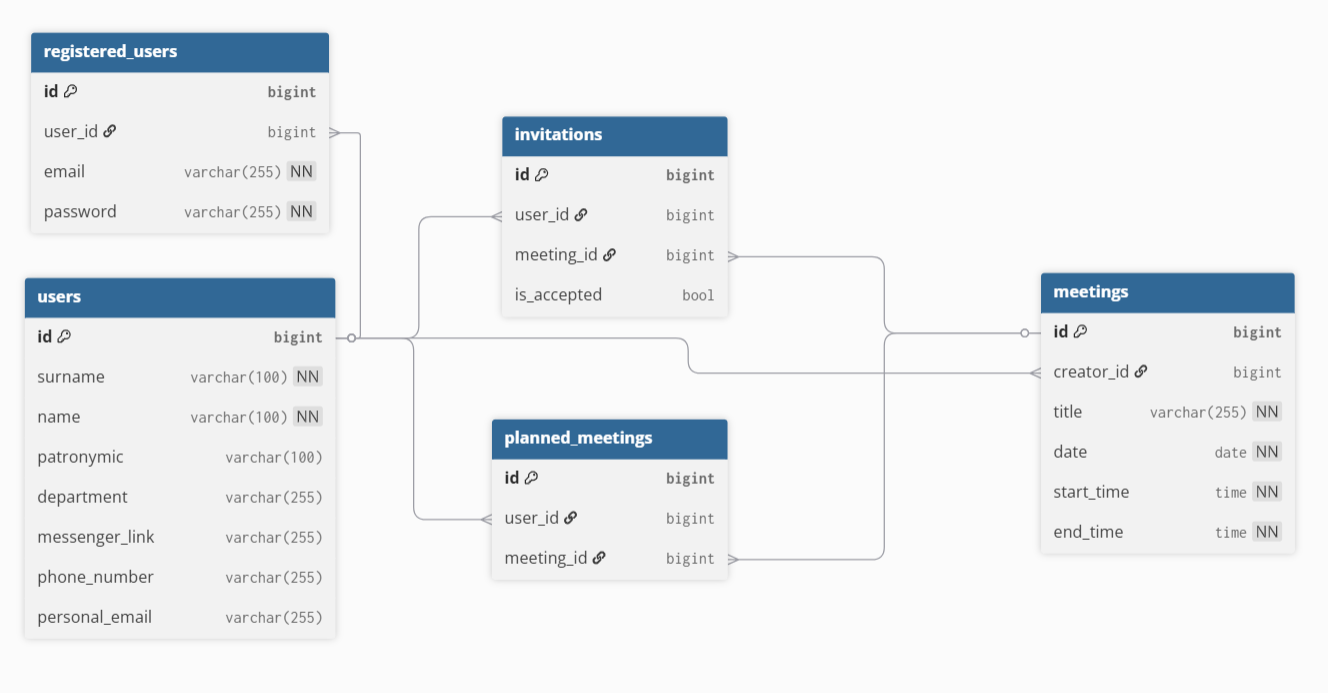
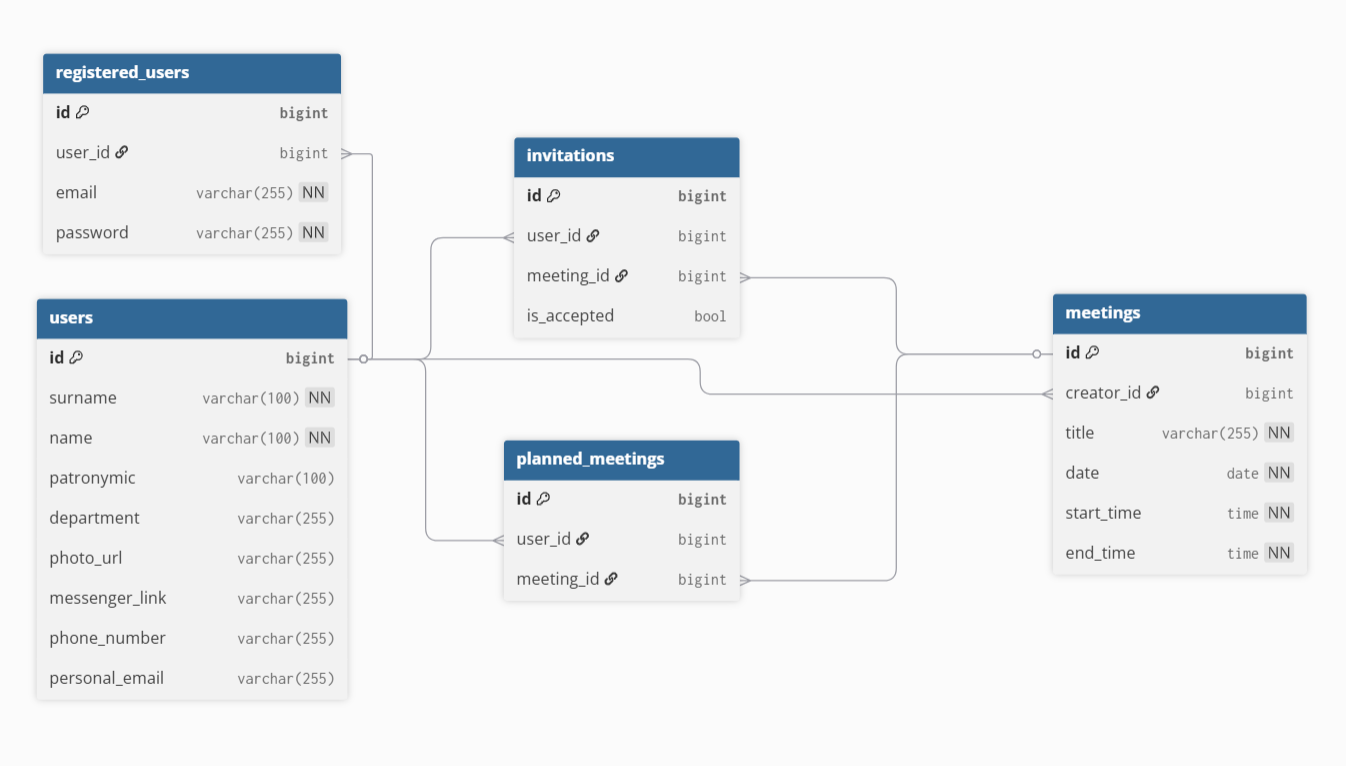
added entities, DTOs, util classes

diff --git a/src/main/java/ru/sicampus/bootcamp2026/util/MeetingMapper.java b/src/main/java/ru/sicampus/bootcamp2026/util/MeetingMapper.java
@@ -1,0 +1,39 @@
+package ru.sicampus.bootcamp2026.util;
+
+import lombok.experimental.UtilityClass;
+import ru.sicampus.bootcamp2026.dto.MeetingDTO;
+import ru.sicampus.bootcamp2026.entity.Meeting;
+import ru.sicampus.bootcamp2026.entity.User;
+
+import java.util.ArrayList;
+import java.util.List;
+
+@UtilityClass
+public class MeetingMapper {
+    public MeetingDTO convertToDto(Meeting meeting) {
+        MeetingDTO meetingDTO = new MeetingDTO();
+        meetingDTO.setId(meeting.getId());
+        meetingDTO.setTitle(meeting.getTitle());
+        meetingDTO.setDate(meeting.getDate());
+        meetingDTO.setStartTime(meeting.getStartTime());
+        meetingDTO.setEndTime(meeting.getEndTime());
+
+        User creator = meeting.getCreator();
+        meetingDTO.setCreatorSurname(creator.getSurname());
+        meetingDTO.setCreatorName(creator.getName());
+        meetingDTO.setCreatorPatronymic(creator.getPatronymic());
+
+        List<User> invitedUsers = new ArrayList<>();
+        List<User> confirmedUsers = new ArrayList<>();
+        meeting.getInvites().forEach(invite -> {
+            User invitedUser = invite.getInvitedUser();
+            invitedUsers.add(invitedUser);
+            if (invite.isAccepted()) {
+                confirmedUsers.add(invitedUser);
+            }
+        });
+        meetingDTO.setInvitedUsers(invitedUsers);
+        meetingDTO.setConfirmedUsers(confirmedUsers);
+        return meetingDTO;
+    }
+}

diff --git a/src/main/java/ru/sicampus/bootcamp2026/util/UserMapper.java b/src/main/java/ru/sicampus/bootcamp2026/util/UserMapper.java
@@ -1,0 +1,37 @@
+package ru.sicampus.bootcamp2026.util;
+
+import lombok.experimental.UtilityClass;
+import ru.sicampus.bootcamp2026.dto.UserDTO;
+import ru.sicampus.bootcamp2026.entity.Invitation;
+import ru.sicampus.bootcamp2026.entity.Meeting;
+import ru.sicampus.bootcamp2026.entity.User;
+
+import java.util.ArrayList;
+import java.util.List;
+
+@UtilityClass
+public class UserMapper {
+    public UserDTO convertToDto(User user) {
+        UserDTO userDTO = new UserDTO();
+        userDTO.setId(user.getId());
+        userDTO.setSurname(user.getSurname());
+        userDTO.setName(user.getName());
+        userDTO.setPatronymic(user.getPatronymic());
+        userDTO.setDepartmentName(user.getDepartmentName());
+        userDTO.setPhotoUrl(user.getPhotoUrl());
+        userDTO.setMessengerLink(user.getMessengerLink());
+        userDTO.setPhoneNumber(user.getPhoneNumber());
+        userDTO.setPersonalEmail(user.getPersonalEmail());
+
+        List<Meeting> invitedMeetings = new ArrayList<>();
+        for (Invitation invite : user.getInvites()) {
+            if (!invite.isAccepted()) {
+                invitedMeetings.add(invite.getMeeting());
+            }
+        }
+        userDTO.setInvitedMeetings(invitedMeetings);
+
+        userDTO.setPlannedMeetings(user.getPlannedMeetings());
+        return userDTO;
+    }
+}

diff --git a/src/main/java/ru/sicampus/bootcamp2026/entity/User.java b/src/main/java/ru/sicampus/bootcamp2026/entity/User.java
@@ -1,0 +1,51 @@
+package ru.sicampus.bootcamp2026.entity;
+
+import jakarta.persistence.*;
+import lombok.Data;
+
+import java.util.List;
+
+@Data
+@Entity
+@Table(name = "users")
+public class User {
+    @Id
+    @GeneratedValue(strategy = GenerationType.IDENTITY)
+    private long id;
+
+    @Column(name = "surname", nullable = false)
+    private String surname;
+
+    @Column(name = "name", nullable = false)
+    private String name;
+
+    @Column(name = "patronymic")
+    private String patronymic;
+
+    @Column(name = "department")
+    private String departmentName;
+
+    @Column(name = "photo_url")
+    private String photoUrl;
+
+    @Column(name = "messenger_link", unique = true)
+    private String messengerLink;
+
+    @Column(name = "phone_number", unique = true)
+    private String phoneNumber;
+
+    @Column(name = "personal_email", unique = true)
+    private String personalEmail;
+
+    @OneToOne(mappedBy = "user", cascade = CascadeType.ALL)
+    private RegisteredUser registrationData;
+
+    @OneToMany(mappedBy = "creator", cascade = CascadeType.ALL)
+    private List<Meeting> createdMeetings;
+
+    @OneToMany(mappedBy = "invitedUser", cascade = CascadeType.ALL)
+    private List<Invitation> invites;
+
+    @ManyToMany(mappedBy = "confirmedUsers")
+    private List<Meeting> plannedMeetings;
+}

diff --git a/src/main/java/ru/sicampus/bootcamp2026/entity/Meeting.java b/src/main/java/ru/sicampus/bootcamp2026/entity/Meeting.java
@@ -1,0 +1,42 @@
+package ru.sicampus.bootcamp2026.entity;
+
+import jakarta.persistence.*;
+import lombok.Data;
+
+import java.sql.Time;
+import java.util.Date;
+import java.util.List;
+
+@Data
+@Entity
+@Table(name = "meetings")
+public class Meeting {
+    @Id
+    @GeneratedValue(strategy = GenerationType.IDENTITY)
+    private long id;
+
+    @ManyToOne
+    @JoinColumn(name = "creator_id", nullable = false)
+    private User creator;
+
+    @Column(name = "title", nullable = false)
+    private String title;
+
+    @Column(name = "date", nullable = false)
+    private Date date;
+
+    @Column(name = "start_time", nullable = false)
+    private Time startTime;
+
+    @Column(name = "end_time", nullable = false)
+    private Time endTime;
+
+    @OneToMany(mappedBy = "meeting", cascade = CascadeType.ALL)
+    private List<Invitation> invites;
+
+    @ManyToMany
+    @JoinTable(name = "planned_meetings",
+            joinColumns = @JoinColumn(name = "meeting_id"),
+            inverseJoinColumns = @JoinColumn(name = "user_id"))
+    private List<User> confirmedUsers;       //Users which have accepted invites
+}

diff --git a/src/main/java/ru/sicampus/bootcamp2026/dto/UserDTO.java b/src/main/java/ru/sicampus/bootcamp2026/dto/UserDTO.java
@@ -1,0 +1,22 @@
+package ru.sicampus.bootcamp2026.dto;
+
+import lombok.Data;
+import ru.sicampus.bootcamp2026.entity.Invitation;
+import ru.sicampus.bootcamp2026.entity.Meeting;
+
+import java.util.List;
+
+@Data
+public class UserDTO {
+    private long id;
+    private String surname;
+    private String name;
+    private String patronymic;
+    private String departmentName;
+    private String photoUrl;
+    private String messengerLink;
+    private String phoneNumber;
+    private String personalEmail;
+    private List<Meeting> invitedMeetings;      //Meetings to which the user is invited
+    private List<Meeting> plannedMeetings;
+}

diff --git a/src/main/java/ru/sicampus/bootcamp2026/entity/Invitation.java b/src/main/java/ru/sicampus/bootcamp2026/entity/Invitation.java
@@ -1,0 +1,24 @@
+package ru.sicampus.bootcamp2026.entity;
+
+import jakarta.persistence.*;
+import lombok.Data;
+
+@Data
+@Entity
+@Table(name = "invitations")
+public class Invitation {
+    @Id
+    @GeneratedValue(strategy = GenerationType.IDENTITY)
+    private long id;
+
+    @ManyToOne
+    @JoinColumn(name = "user_id", nullable = false)
+    private User invitedUser;
+
+    @ManyToOne
+    @JoinColumn(name = "meeting_id", nullable = false)
+    private Meeting meeting;            //Meeting to which the user is invited
+
+    @Column(name = "is_accepted", nullable = false)
+    private boolean isAccepted;
+}

diff --git a/src/main/java/ru/sicampus/bootcamp2026/dto/MeetingDTO.java b/src/main/java/ru/sicampus/bootcamp2026/dto/MeetingDTO.java
@@ -1,0 +1,22 @@
+package ru.sicampus.bootcamp2026.dto;
+
+import lombok.Data;
+import ru.sicampus.bootcamp2026.entity.User;
+
+import java.sql.Time;
+import java.util.Date;
+import java.util.List;
+
+@Data
+public class MeetingDTO {
+    private long id;
+    private String title;
+    private Date date;
+    private Time startTime;
+    private Time endTime;
+    private String creatorSurname;
+    private String creatorName;
+    private String creatorPatronymic;
+    private List<User> invitedUsers;
+    private List<User> confirmedUsers;
+}

diff --git a/src/main/java/ru/sicampus/bootcamp2026/entity/RegisteredUser.java b/src/main/java/ru/sicampus/bootcamp2026/entity/RegisteredUser.java
@@ -1,0 +1,23 @@
+package ru.sicampus.bootcamp2026.entity;
+
+import jakarta.persistence.*;
+import lombok.Data;
+
+@Data
+@Entity
+@Table(name = "registered_users")
+public class RegisteredUser {
+    @Id
+    @GeneratedValue(strategy = GenerationType.IDENTITY)
+    private long id;
+
+    @OneToOne
+    @JoinColumn(name = "user_id", nullable = false)
+    private User user;
+
+    @Column(name = "email", nullable = false)
+    private String email;
+
+    @Column(name = "password", nullable = false)
+    private String password;
+}

diff --git a/src/main/java/ru/sicampus/bootcamp2026/util/InvitationMapper.java b/src/main/java/ru/sicampus/bootcamp2026/util/InvitationMapper.java
@@ -1,0 +1,15 @@
+package ru.sicampus.bootcamp2026.util;
+
+import lombok.experimental.UtilityClass;
+import ru.sicampus.bootcamp2026.dto.InvitationDTO;
+import ru.sicampus.bootcamp2026.entity.Invitation;
+
+@UtilityClass
+public class InvitationMapper {
+    public InvitationDTO convertToDto(Invitation invitation) {
+        InvitationDTO invitationDTO = new InvitationDTO();
+        invitationDTO.setId(invitation.getId());
+        invitationDTO.setMeeting(invitation.getMeeting());
+        return invitationDTO;
+    }
+}

diff --git a/src/main/java/ru/sicampus/bootcamp2026/dto/InvitationDTO.java b/src/main/java/ru/sicampus/bootcamp2026/dto/InvitationDTO.java
@@ -1,0 +1,10 @@
+package ru.sicampus.bootcamp2026.dto;
+
+import lombok.Data;
+import ru.sicampus.bootcamp2026.entity.Meeting;
+
+@Data
+public class InvitationDTO {
+    private long id;
+    private Meeting meeting;
+}
